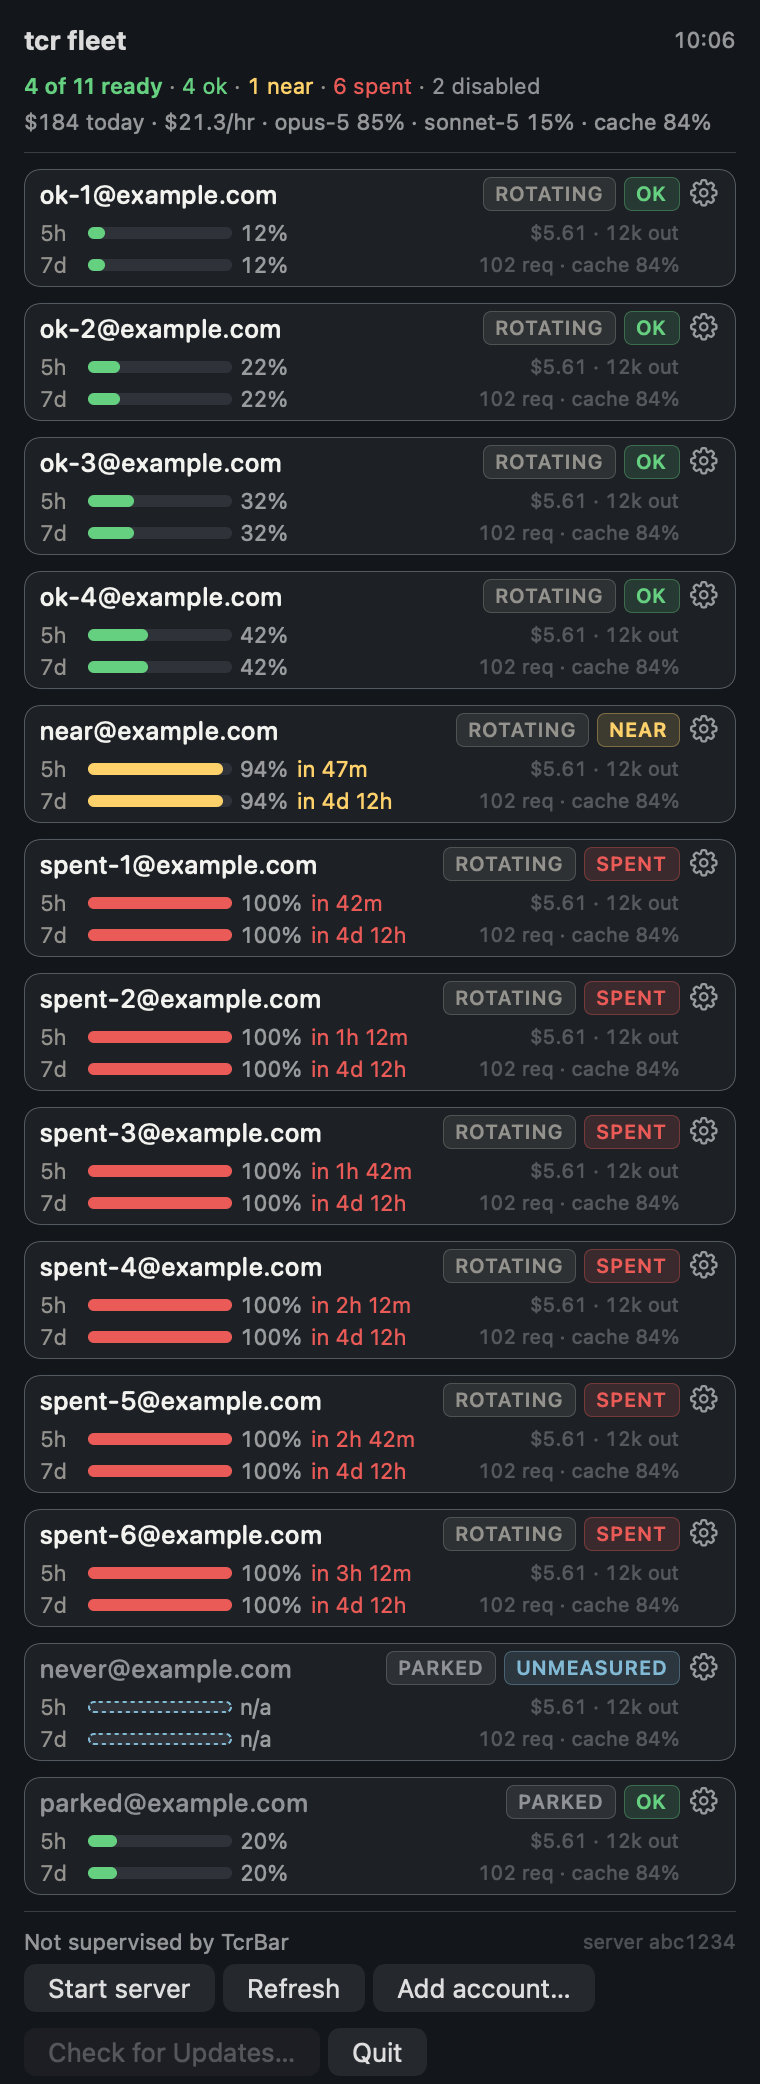
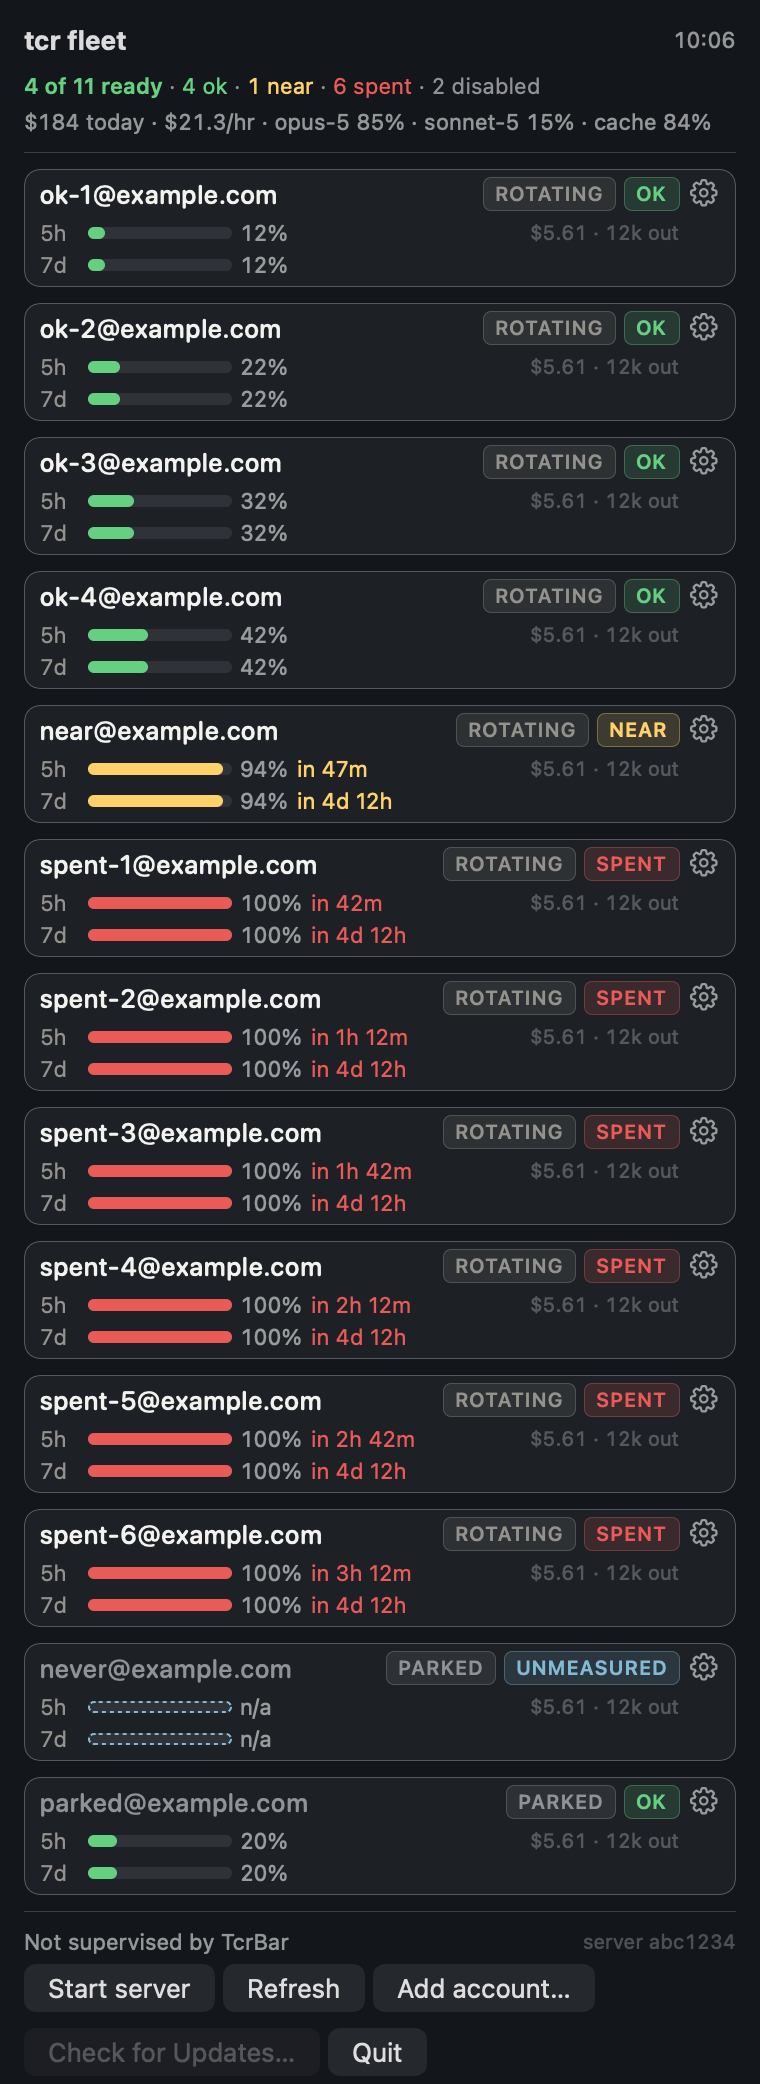
docs: re-render the panel shots, and keep the watched-failing runs re-runnable
Three of the four README shots move: the 7d line's right-hand slot no longer
carries the serving counters, which are the row's tooltip now, and two accounts
in the healthy shot carry the Fable weekly window in its two shapes — a
percentage with its countdown, and a percentage alone where the server has no
live reset for it. `tcrbar-panel-offline.png` is byte-identical, because an
offline read draws neither: its counters are structurally zero and it has no
Fable reading. The card is still 59pt at 2x, measured from the render.

Render fixtures default that window to NOT MEASURED rather than to a measured
zero. It is only learned once a Fable request has been served on an account, so
most of a real fleet has no reading, and a default of `0.0` would have put
`fable 0%` on thirteen rows of the fleet shot and taught a reader that the empty
case does not exist. Every scene that does not opt in is now also the negative
case; scene 14 opts in with all four branches — `near`, `spent`, a real fraction
with no state word (what a live proxy sends today), and no fraction at all.

`scripts/mutate-panel-round2.py` is the watched-failing run for all nine of this
round's new tests, kept because a test that has only ever passed proves nothing
about what it guards, and a claim that one was watched failing is worth less
than the command that shows it. Each mutation reverts one fixed line, runs only
the test that should catch it, and restores the file by rewriting the bytes it
[…]

diff --git a/apps/macos/Sources/TcrBar/RenderStates.swift b/apps/macos/Sources/TcrBar/RenderStates.swift
@@ -267,16 +267,18 @@ enum RenderStates {
         // whose 7d window is spent can have Fable headroom and the reverse, and
         // a fixture that tied them together could not show it.
         //
-        // `"0.0"` by default, which draws `fable 0%` — a measured zero, the
-        // most headroom there is. `"null"` is the NOT-MEASURED row (an older
-        // server, or a window never learned for this account) and must draw an
-        // EMPTY slot, never `n/a`; scene 14 carries one.
-        sevenDayOi: String = "0.0",
+        // NOT MEASURED by default — an older server, or a window never learned
+        // for this account, which is the majority of a real fleet: the window
+        // is only learned once a Fable request has been served on that account.
+        // It must draw an EMPTY slot, never `n/a` and never `0%`, so every
+        // scene that does not opt in is also the negative case. Scenes 01 and
+        // 14 opt in.
+        sevenDayOi: String = "null",
         // `"null"` is the shape a proxy predating `sevenDayOiState` sends: a
         // real fraction with no state word beside it, which draws the figure in
         // the neutral tint rather than borrowing the composite state. Scene 14
         // carries one of those too.
-        sevenDayOiState: String = "ok",
+        sevenDayOiState: String = "null",
         sevenDayOiResetInMinutes: Int? = nil,
         // The `usage` object, as raw JSON. Defaults to the measured shape, so
         // every existing scene shows the spend line the panel now draws.
@@ -435,12 +437,18 @@ enum RenderStates {
         #"[{"window":"7d","minutesUntilReset":6498,"resetAtMs":1786406400224}]"#
 
     /// Two healthy accounts, and the row's two shapes side by side: alice has a
-    /// reset on both windows and carries a caption beside each percentage; bob
+    /// reset on every window and carries a caption beside each percentage; bob
     /// has none on the wire and must still read as a complete row. The caption
     /// is drawn when there is one, never reserved as blank space.
+    ///
+    /// Both carry a Fable weekly reading, which is what the README's own shot is
+    /// cut from — the two shapes of that slot, a percentage with its countdown
+    /// and a percentage alone, in the panel a reader sees first. Neither is
+    /// `near` or `spent`: this is the healthy scene, and the two tinted shapes
+    /// are scene 14's job.
     private static var healthyJSON: String {
-        "[\(account("alice@example.com", quota: "0.12", state: "ok", fiveHourResetInMinutes: 130, sevenDayResetInMinutes: 4_320)),"
-            + "\(account("bob@example.com", quota: "0.31", state: "ok"))]"
+        "[\(account("alice@example.com", quota: "0.12", state: "ok", fiveHourResetInMinutes: 130, sevenDayResetInMinutes: 4_320, sevenDayOi: "0.21", sevenDayOiState: "ok", sevenDayOiResetInMinutes: 6_498)),"
+            + "\(account("bob@example.com", quota: "0.31", state: "ok", sevenDayOi: "0.44", sevenDayOiState: "ok"))]"
     }
 
     /// The bug this scene exists to catch: a 7d-red account must not paint

diff --git a/scripts/mutate-panel-round2.py b/scripts/mutate-panel-round2.py
@@ -1,0 +1,177 @@
+#!/usr/bin/env python3
+"""Watch each of round two's new tests fail against the behaviour it guards.
+
+A test that has only ever passed proves nothing about what it guards (CLAUDE.md,
+"Verifying a change"). This applies one mutation at a time — reverting the fixed
+line to what it did before — runs ONLY the test that should catch it, records the
+failure line, and puts the file back.
+
+Reverts by re-writing the exact bytes it replaced, never by `git checkout`: a
+checkout of a path would also discard any sibling's uncommitted work in that file.
+The fix is committed first, so an interrupted run loses nothing either way.
+
+Usage: mutate-panel-round2.py [item ...]     (default: every item)
+Prints one `item: EXPECTED-FAIL|UNEXPECTED-PASS ...` line per mutation.
+"""
+import pathlib
+import re
+import subprocess
+import sys
+
+ROOT = pathlib.Path(__file__).resolve().parent.parent
+MACOS = ROOT / "apps/macos"
+CORE = MACOS / "Sources/TcrBarCore"
+FLEET = CORE / "FleetStatus.swift"
+PANEL = CORE / "PanelHeight.swift"
+
+# item -> (file, old bytes to find, mutated bytes, test filter)
+MUTATIONS = {
+    # Finding 2: drop the render condition, so a stale measurement keeps being
+    # charged to the list after the spend line stops rendering.
+    "2": (
+        PANEL,
+        "        guard lineIsDrawn else { return 0 }\n        return lineHeight - oneLineHeight",
+        "        return lineHeight - oneLineHeight",
+        "testAHeaderThatStopsDrawingItsSpendLineGivesTheBudgetBack",
+    ),
+    # Finding 3: drop the control-row separator from the viewport sum.
+    "3": (
+        PANEL,
+        "        let separator = controlHairline.map { spacing + $0 } ?? 0",
+        "        let separator: CGFloat = 0",
+        "testAPinnedControlRowsSeparatorIsInTheSum",
+    ),
+    # Finding 4: go back to dropping the rate with nothing said about the hour.
+    "4": (
+        FLEET,
+        '        guard let unpriced = lastHourUnpricedRequests, unpriced > 0 else { return nil }\n        return "\\(unpriced) unpriced this hour"',
+        "        return nil",
+        "testAnUnpriceableHourSaysSoEvenWhenTheDayIsEmpty",
+    ),
+    # Finding 5: stop carrying the merged label's unpriced requests out.
+    "5": (
+        FLEET,
+        "                        partial: $0.value.unpricedRequests > 0)",
+        "                        partial: false)",
+        "testAMergedLabelSaysItsPercentIsAFloor",
+    ),
+    # Finding 6: take the decimals from the RAW unit again, after the band was
+    # already promoted from the rounded one.
+    "6": (
+        FLEET,
+        '        return String(format: "%.\\(band.decimals)f", unit) + tokenBands[band.unit].suffix',
+        '        return String(format: "%.\\(abs(unit) < 10 ? 1 : 0)f", unit) + tokenBands[band.unit].suffix',
+        "testTokensPickTheirDecimalsAfterRoundingToo",
+    ),
+    # Finding 7: end the ladder at G again.
+    "7": (
+        FLEET,
+        '        (1, ""), (1_000, "k"), (1_000_000, "M"), (1_000_000_000, "G"),\n        (1_000_000_000_000, "T"),',
+        '        (1, ""), (1_000, "k"), (1_000_000, "M"), (1_000_000_000, "G"),',
+        "testTheTopBandRoundsLikeEveryOtherBand",
+    ),
+    # Finding 8: break the FLOOR the panel runs on, so a long enough header eats
+    # the whole list.
+    #
+    # Deliberately the arithmetic and not the constant. Mutating
+    # `panelMinListHeight` itself cannot fail and is not a control: the number
+    # has exactly one home now, and both the panel and the assertion read that
+    # one — they move together, which is the entire point of the move. What the
+    # finding asked for was a gate that cannot pass against a stale copy of the
+    # value, and the way to get that is to leave no copy, not to pin `120` in a
+    # test file and re-create the duplicate one directory over.
+    "8": (
+        PANEL,
+        "        max(minimum, cap - max(0, headerOverflow))",
+        "        cap - max(0, headerOverflow)",
+        "testAnAbsurdHeaderStillLeavesAScrollableList",
+    ),
+    # Finding 9: take the re-pass out of the one helper both formatters share,
+    # which must red BOTH of their gates at once.
+    "9": (
+        FLEET,
+        "        band(printedMagnitude(band(magnitude), magnitude))",
+        "        band(magnitude)",
+        "testBothFormattersShareTheSameRoundThenBandRule",
+    ),
+    # The Fable slot: render `n/a` for a window nobody measured, which is the
+    # one thing the whole slot must not do.
+    "fable": (
+        FLEET,
+        "        guard let sevenDayOi else { return nil }\n        let figure = \"fable \\(QuotaFormat.percent(sevenDayOi))\"",
+        '        let figure = "fable \\(QuotaFormat.percent(sevenDayOi))"',
+        "testAnUnmeasuredWindowDrawsNothingAtAll",
+    ),
+}
+
+
+def run(test_filter):
+    """Run one test and return (passed, first failure line)."""
+    result = subprocess.run(
+        ["swift", "test", "--filter", test_filter],
+        cwd=MACOS, capture_output=True, text=True)
+    failures = [
+        line.strip() for line in result.stdout.splitlines() + result.stderr.splitlines()
+        if re.search(r"\.swift:\d+: error:", line)
+    ]
+    # A filter that matches nothing still exits 0 with "Executed 0 tests", which
+    # would read as a pass — so the count has to be non-zero, not merely present.
+    executed = any(
+        re.search(r"Executed [1-9]\d* test", line)
+        for line in result.stdout.splitlines() + result.stderr.splitlines())
+    return result.returncode == 0, failures, executed
+
+
+def main():
+    items = sys.argv[1:] or list(MUTATIONS)
+    worst = 0
+    for item in items:
+        path, old, new, test_filter = MUTATIONS[item]
+        text = path.read_text(encoding="utf-8")
+        if text.count(old) != 1:
+            print(f"{item}: ANCHOR-MISS {path.name} matched {text.count(old)} times "
+                  "— the code moved and this mutation did not")
+            worst = 2
+            continue
+
+        # Control first: the test must PASS on the committed fix, or a failure
+        # under mutation proves nothing about the mutation.
+        passed, _, executed = run(test_filter)
+        if not (passed and executed):
+            print(f"{item}: CONTROL-FAILED {test_filter} does not pass unmutated")
+            worst = 2
+            continue
+
+        path.write_text(text.replace(old, new), encoding="utf-8")
+        try:
+            passed, failures, executed = run(test_filter)
+        finally:
+            path.write_text(text, encoding="utf-8")
+
+        if not executed:
+            print(f"{item}: NO-SUCH-TEST {test_filter} matched nothing")
+            worst = 2
+        elif passed:
+            print(f"{item}: UNEXPECTED-PASS {test_filter} survived the mutation "
+                  "— it does not guard what it claims")
+            worst = 2
+        else:
+            print(f"{item}: EXPECTED-FAIL {test_filter}")
+            for line in failures[:2]:
+                print(f"    {line}")
+
+    # And the tree is back the way it was.
+    dirty = subprocess.run(
+        ["git", "-C", str(ROOT), "status", "--porcelain", "--",
+         str(FLEET.relative_to(ROOT)), str(PANEL.relative_to(ROOT))],
+        capture_output=True, text=True).stdout.strip()
+    if dirty:
+        print(f"RESTORE-FAILED: {dirty}")
+        worst = 2
+    else:
+        print("restored: both sources match HEAD")
+    return worst
+
+
+if __name__ == "__main__":
+    raise SystemExit(main())
